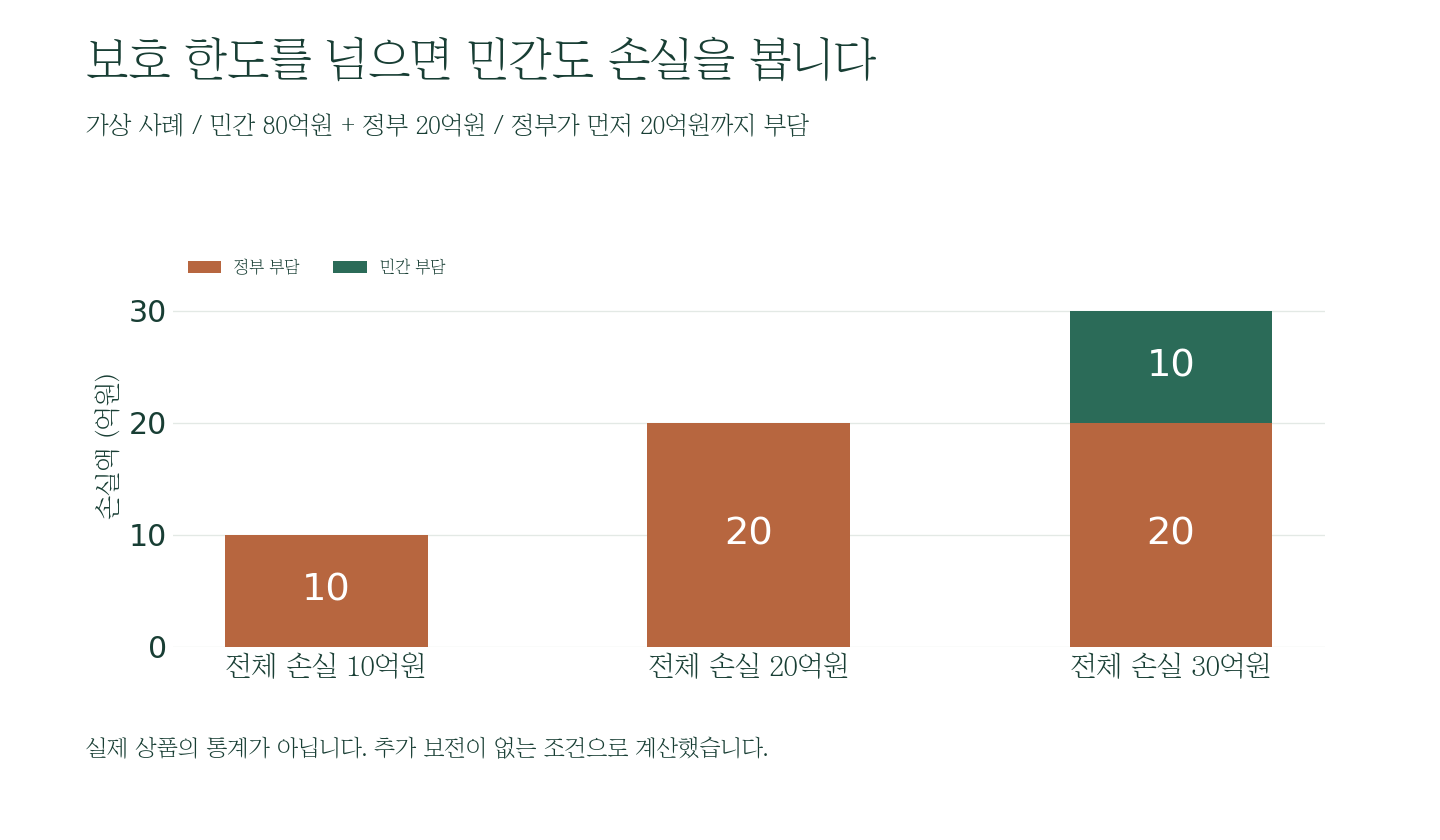
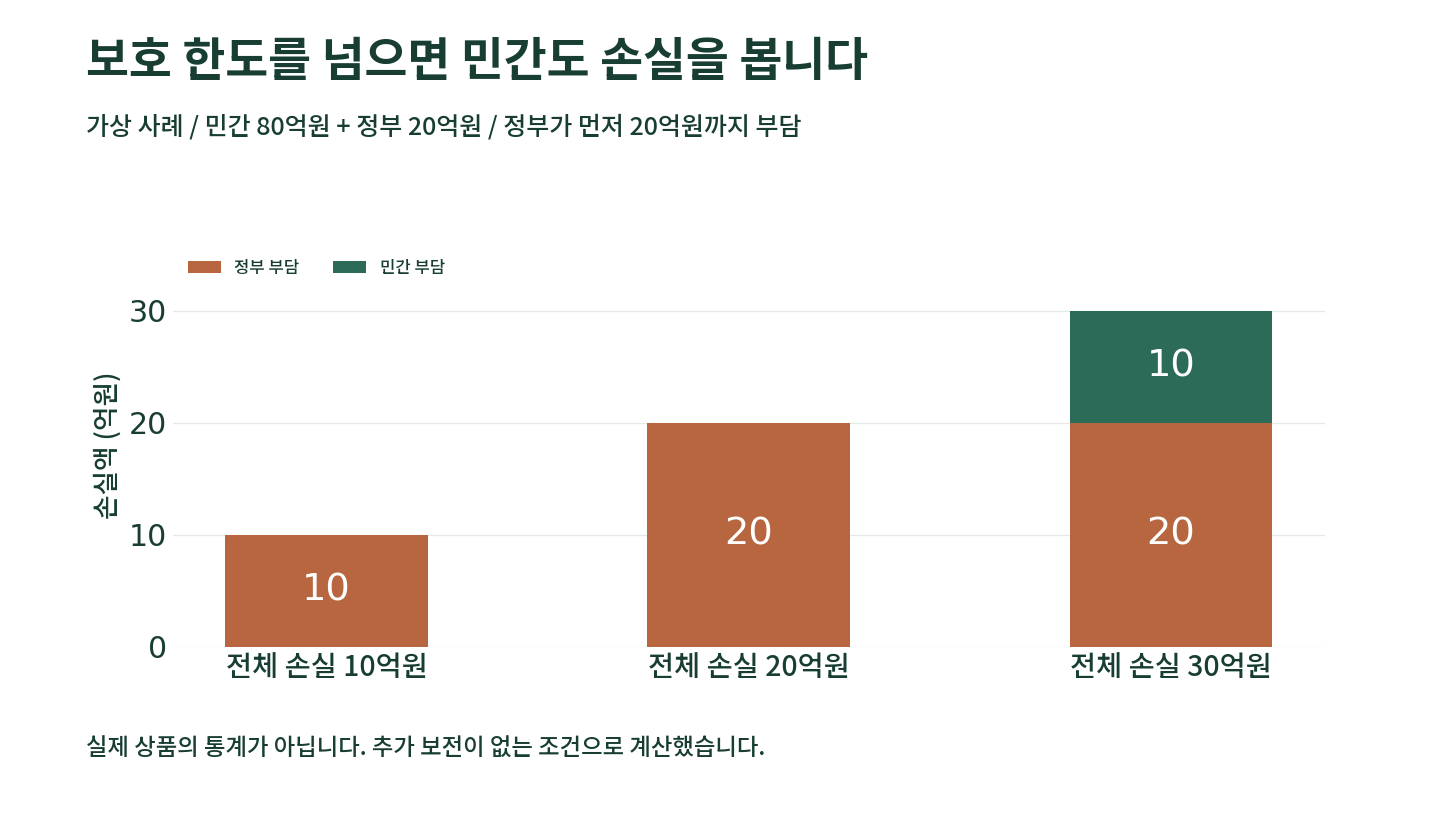
Align article visuals to body width and restore sans-serif chart typography

diff --git a/src/pages/CommunityChestWatchArticle.tsx b/src/pages/CommunityChestWatchArticle.tsx
@@ -38,7 +38,7 @@ export default function CommunityChestWatchArticle({ language }: { language: "ko
       </div>
     </header>
 
-    <div className="container-page max-w-4xl pt-8 sm:pt-11">
+    <div className="article-content-frame pt-8 sm:pt-11">
       <figure>
         <img src={photo} alt={ko ? "사랑의열매 상징이 놓인 탁자에서 기부금 자료를 살피는 장면" : "A reader examines donation records beside a card depicting the Community Chest emblem"} className="aspect-[16/9] w-full object-cover"/>
         <figcaption className="mt-2 text-xs leading-5 text-charcoal/55">{ko ? "사랑의열매를 상징하는 표식과 자료를 함께 배치한 AI 이미지. 실제 회계 문서나 취재 현장 사진은 아닙니다." : "AI editorial illustration by Seed Voice depicting the Community Chest symbol and a donation ledger. It is not a photograph of actual records or field reporting."}</figcaption>
@@ -56,7 +56,7 @@ export default function CommunityChestWatchArticle({ language }: { language: "ko
         ]).map(([label, value, note]) => <div key={label} className="border-t-4 border-green-deep bg-white p-5"><p className="text-xs font-bold text-charcoal/60">{label}</p><p className="mt-2 text-2xl font-extrabold text-navy">{value}</p><p className="mt-2 text-xs leading-5 text-charcoal/55">{note}</p></div>)}
       </div>
 
-      <div className="mx-auto mt-11 max-w-[720px] space-y-5 text-[16px] leading-8 text-charcoal/85 sm:text-[17px]">
+      <div className="reading-column mt-11 space-y-5 text-[16px] leading-8 text-charcoal/85 sm:text-[17px]">
         <p>{ko ? "2016년 사랑의열매에 모인 돈은 5,742억 원이었다. 2025년에는 9,864억 원이다. 10년 사이 약 72% 늘었다. 큰돈을 모아 위기의 이웃에게 보내는 힘은 소중하다. 그런데 지원받은 사람의 생활이 얼마나 나아졌는지를 알려면 모금액과 배분액만으로는 답이 나오지 않는다. 씨앗이 따라갈 것은 바로 그 빈칸이다." : "Community Chest of Korea raised KRW 574.2 billion in 2016 and KRW 986.4 billion in 2025, an increase of about 72%. Its ability to mobilize help matters. But the amount raised and allocated does not tell us whether recipients' lives improved. That is the gap this watch will follow."}</p>
       </div>
 
@@ -75,7 +75,7 @@ export default function CommunityChestWatchArticle({ language }: { language: "ko
         <p className="mt-3 text-xs leading-6 text-charcoal/55">{ko ? "자료: 사랑의열매 사업성과. 원자료 단위 백만 원을 억 원으로 반올림. 중앙회·지회 합계. 2021년부터 복권기금사업 실적이 배분액에 포함돼 이전 연도와 정의가 다르다. 한 해 모금과 배분의 차이는 미집행액이 아니다." : "Source: Community Chest annual performance data, national office plus branches, rounded from KRW million. Lottery-fund projects enter the allocation series in 2021, so earlier years are not strictly comparable. Annual donations minus allocations do not equal unspent cash."} <a className="underline" href={performance} target="_blank" rel="noreferrer">{ko ? "원자료" : "Original data"}</a></p>
       </section>
 
-      <section className="mx-auto mt-12 max-w-[720px] space-y-5 text-[16px] leading-8 text-charcoal/85 sm:text-[17px]">
+      <section className="reading-column mt-12 space-y-5 text-[16px] leading-8 text-charcoal/85 sm:text-[17px]">
         <h2 className="text-2xl font-extrabold text-navy">{ko ? "9,860억 원은 누구의 선택을 따라갔나" : "Who directed the KRW 986 billion?"}</h2>
         <p>{ko ? "2025년 배분 중 지정기탁은 7,430억 원이다. 기부자의 뜻이 분명한 돈이 모이고 쓰인다는 점은 강점이다. 그러나 기부자가 잘 알지 못하는 지역의 작은 문제는 누가 발견할까. 같은 공시에서 공개 신청사업은 301억 원, 전체 배분의 3.1%다." : "Donor-directed giving accounted for KRW 743.0 billion in 2025. Honoring donor intent is a strength. Yet who finds local needs donors do not already know? Open application programs accounted for KRW 30.1 billion, 3.1% of allocations."}</p>
         <p>{ko ? "3.1%만으로 작은 단체가 배제됐다고 판정할 수는 없다. 기획사업이나 지정기탁에서도 지원받을 수 있다. 필요한 것은 신청 단체의 규모와 선정률, 처음 지원받은 단체의 비율, 반복 지원 비율, 지역별 편차다. 이 자료가 있어야 익숙한 기관뿐 아니라 새 시민 활동에도 기회가 열리는지 판단할 수 있다." : "That 3.1% does not prove smaller groups were excluded; planned or donor-directed programs may also support them. We need application and selection rates by organization size, first-time grants, repeat grants and region before judging access."}</p>
@@ -85,7 +85,7 @@ export default function CommunityChestWatchArticle({ language }: { language: "ko
 
       <aside className="mt-8 border-l-4 border-gold bg-white p-6"><h3 className="font-extrabold text-navy">{ko ? "사업감시의 세 칸" : "Three measures of a program"}</h3><p className="mt-3 text-sm leading-7 text-charcoal/75">{ko ? "투입: 얼마를 썼나 → 도달: 누구에게 닿았나 → 변화: 그 뒤 무엇이 달라졌나. 공개된 합계는 첫째와 일부 둘째를 보여준다. 셋째는 개별 사업 평가서, 조사 방식, 중단·실패한 사업까지 대조해야 한다. 현재 확인한 자료만으로 전체 사업의 사회적 효과를 수치화하지 않는다." : "Input: money spent → Reach: people served → Change: outcomes sustained. Published aggregates show the first and part of the second. Individual evaluations, survey methods and failed or discontinued projects are needed for the third. These records alone cannot establish overall social impact."}</p></aside>
 
-      <section className="mx-auto mt-12 max-w-[720px] space-y-5 text-[16px] leading-8 text-charcoal/85 sm:text-[17px]">
+      <section className="reading-column mt-12 space-y-5 text-[16px] leading-8 text-charcoal/85 sm:text-[17px]">
         <h2 className="text-2xl font-extrabold text-navy">{ko ? "커지는 이월 재원은 무슨 계획을 품고 있나" : "What is the plan for carried-forward resources?"}</h2>
         <p>{ko ? "공식 수입지출현황의 ‘차기이월 순자산’은 2021년 약 8,181억 원에서 2025년 약 1조 962억 원으로 늘었다. 이 수치는 재무상태표의 자본총계와도 다르며, 전액 곧바로 쓸 수 있는 현금도 아니다. 씨앗이 요구할 설명은 언제 모였고, 어떤 지정조건이 붙었고, 언제 누구에게 쓰일 돈인지를 시민이 따라갈 수 있는 표다." : "The disclosed carried-forward net-assets figure increased from roughly KRW 818.1 billion in 2021 to KRW 1.0962 trillion in 2025. It differs from balance-sheet equity and is not all immediately available cash. Citizens need a ledger showing when funds arrived, their restrictions and planned spending dates."}</p>
         <p>{ko ? "사랑의열매는 큰 기부를 모아 위기의 현장으로 보낼 역량을 갖고 있다. 바로 그 규모 때문에 설명의 책임도 크다. 시민이 궁금한 것은 소박하다. 내가 낸 돈으로 누가 숨을 돌렸고, 그 변화가 얼마나 오래 갔는가. 다음에는 누가 기회를 얻는가." : "The Chest can mobilize major donations for people in crisis. Its scale makes explanation more necessary. Who found relief, how long did the improvement last, and who gets a chance next?"}</p>

diff --git a/src/pages/InstitutionWatchArticle.tsx b/src/pages/InstitutionWatchArticle.tsx
@@ -142,16 +142,16 @@ export default function InstitutionWatchArticle({ item, language }: { item: Publ
       <p className="mt-5 max-w-3xl text-base leading-8 text-charcoal/70">{t(story.deck)}</p>
       <p className="mt-4 text-xs text-charcoal/50">{ko ? "자료 확인·수정 2026.09.24 · 추적 중" : "Verified and updated 24 September 2026 · Ongoing watch"}</p>
     </div></header>
-    <div className="container-page max-w-4xl pt-8 sm:pt-11">
+    <div className="article-content-frame pt-8 sm:pt-11">
       {item.supportNote && <aside className="mb-6 rounded-lg bg-navy p-5 text-sm font-semibold leading-7 text-white">{t(item.supportNote)}</aside>}
       <figure><img src={story.image} alt={t(story.imageAlt)} className="aspect-[16/9] w-full object-cover"/><figcaption className="mt-2 text-xs leading-5 text-charcoal/55">{ko ? "씨앗의 소리가 제작한 AI 상징 이미지. 실제 기관·회계문서·취재 현장의 사진은 아닙니다." : "AI editorial illustration by Seed Voice, not a photograph of an actual institution, document or reporting scene."}</figcaption></figure>
       <div className="mt-8 grid gap-3 sm:grid-cols-3">{story.cards.map((card) => <div key={card.label.ko} className="border-t-4 border-green-deep bg-white p-5"><p className="text-xs font-bold text-charcoal/60">{t(card.label)}</p><p className="mt-2 text-xl font-extrabold text-navy sm:text-2xl">{t(card.value)}</p><p className="mt-2 text-xs leading-5 text-charcoal/55">{t(card.note)}</p></div>)}</div>
-      <div className="mx-auto mt-11 max-w-[720px] space-y-5 text-[16px] leading-8 text-charcoal/85 sm:text-[17px]">{story.lead.map((p) => <p key={p.ko}>{t(p)}</p>)}</div>
+      <div className="reading-column mt-11 space-y-5 text-[16px] leading-8 text-charcoal/85 sm:text-[17px]">{story.lead.map((p) => <p key={p.ko}>{t(p)}</p>)}</div>
       <section className="mt-12"><h2 className="text-2xl font-extrabold text-navy">{t(story.seriesTitle)}</h2><p className="mt-3 text-sm leading-7 text-charcoal/65">{t(story.seriesIntro)}</p>
         <div className="mt-5 overflow-x-auto bg-white p-5"><div className="min-w-[520px]"><div className="flex h-36 items-end gap-1 border-b border-charcoal/20">{story.points.map((p) => <div key={p.year} className="flex h-full flex-1 items-end justify-center gap-0.5">{p.amount === undefined ? <span className="mb-1 block h-1 w-3 bg-charcoal/20"/> : <><span className="w-2/5 bg-green-deep" style={{ height: `${p.amount / max * 100}%` }}/>{p.secondary !== undefined && <span className="w-2/5 bg-gold" style={{ height: `${p.secondary / max * 100}%` }}/>}</>}</div>)}</div><div className="mt-2 flex gap-1 text-center text-[10px] text-charcoal/60">{story.points.map((p) => <span key={p.year} className="flex-1">{String(p.year).slice(2)}</span>)}</div></div><p className="mt-3 text-xs text-charcoal/55">{ko ? "초록: 주 지표 / 금색: 별도 범위 또는 시설비 / 회색: 미확인·해당 없음" : "Green: primary series / gold: separate scope or facility / grey: unverified or N/A"}</p></div>
         <div className="mt-4 overflow-x-auto border border-green-deep/15 bg-white"><table className="w-full min-w-[500px] text-sm"><thead className="bg-green-deep text-white"><tr><th className="p-3 text-left">{ko ? "연도" : "Year"}</th><th className="p-3 text-right">{ko ? "주 지표 (억 원)" : "Primary (KRW 100m)"}</th><th className="p-3 text-right">{ko ? "별도 범위 (억 원)" : "Separate scope"}</th><th className="p-3 text-left">{ko ? "자료 상태" : "Status"}</th></tr></thead><tbody>{story.points.map((p) => <tr key={p.year} className="border-t border-green-deep/10"><td className="p-3 font-bold">{p.year}</td><td className="p-3 text-right tabular-nums">{p.amount?.toLocaleString("ko-KR") ?? "—"}</td><td className="p-3 text-right tabular-nums">{p.secondary?.toLocaleString("ko-KR") ?? "—"}</td><td className="p-3 text-xs text-charcoal/65">{t(p.note)}</td></tr>)}</tbody></table></div><p className="mt-3 text-xs leading-6 text-charcoal/55">{t(story.seriesNote)}</p>
       </section>
-      {story.chapters.map((chapter) => <section key={chapter.title.ko} className="mx-auto mt-12 max-w-[720px] space-y-5 text-[16px] leading-8 text-charcoal/85 sm:text-[17px]"><h2 className="text-2xl font-extrabold text-navy">{t(chapter.title)}</h2>{chapter.paragraphs.map((p) => <p key={p.ko}>{t(p)}</p>)}</section>)}
+      {story.chapters.map((chapter) => <section key={chapter.title.ko} className="reading-column mt-12 space-y-5 text-[16px] leading-8 text-charcoal/85 sm:text-[17px]"><h2 className="text-2xl font-extrabold text-navy">{t(chapter.title)}</h2>{chapter.paragraphs.map((p) => <p key={p.ko}>{t(p)}</p>)}</section>)}
       <section className="mt-12 border-t border-green-deep/15 pt-7"><h2 className="text-2xl font-extrabold text-navy">{ko ? "다음 공개자료에서 확인할 세 가지" : "Three questions for the next disclosure"}</h2><div className="mt-5 grid gap-3 sm:grid-cols-3">{story.checks.map((c, i) => <div key={c.question.ko} className="bg-white p-5"><span className="text-xs font-extrabold text-gold">{String(i + 1).padStart(2,"0")}</span><h3 className="mt-2 font-extrabold text-navy">{t(c.question)}</h3><p className="mt-2 text-sm leading-6 text-charcoal/70">{t(c.measure)}</p></div>)}</div><p className="mt-5 text-sm leading-7 text-charcoal/65">{ko ? "기관의 자료와 반론이 도착하면 원문, 확인일, 수정 이력을 연결해 이 기사를 갱신합니다." : "We will update this article with institutional records and replies, source dates and a visible revision history."}</p></section>
       <aside className="mt-9 border-l-4 border-gold bg-white p-5 text-sm leading-7 text-charcoal/75"><strong className="block text-navy">{ko ? "수치 해석 주의" : "Reading the figures"}</strong>{t(story.caution)}</aside>
       <section className="mt-10"><h2 className="text-2xl font-extrabold text-navy">{ko ? "원문과 확인 자료" : "Primary records and sources"}</h2><div className="mt-4 divide-y divide-green-deep/10 border-y border-green-deep/10">{[...item.sources.map((x) => ({ label: x.label, url: x.url })), ...(story.additionalSources ?? [])].map((source) => <a key={source.url} href={source.url} target="_blank" rel="noreferrer" className="flex items-start gap-3 py-3 text-sm font-bold text-navy hover:text-green-deep"><span className="flex-1">{t(source.label)}</span><ExternalLink size={16}/></a>)}</div></section>

diff --git a/src/pages/PublicInstitutionReformTracker.tsx b/src/pages/PublicInstitutionReformTracker.tsx
@@ -41,12 +41,12 @@ export default function PublicInstitutionReformTrackerPage() {
 
   return <article className="bg-paper pb-14 sm:pb-20">
     <header className="border-b border-green-deep/15 bg-ivory">
-      <div className="container-page max-w-6xl py-5 sm:py-8">
+      <div className="article-content-frame py-5 sm:py-8">
         <div className="flex flex-wrap items-center justify-between gap-3">
           <Link to="/monitoring" className="text-link text-xs"><ArrowLeft size={14}/>{ko ? "시민감시" : "Civic Watch"}</Link>
           <ShareButton title={t(publicInstitutionReformTracker.title)} text={t(publicInstitutionReformTracker.summary)} />
         </div>
-        <div className="mt-4 grid gap-7 border-t-2 border-navy pt-5 lg:grid-cols-[1.08fr_.92fr] lg:items-center">
+        <div className="mt-4 grid gap-7 border-t-2 border-navy pt-5">
           <div>
             <div className="flex flex-wrap items-center gap-2.5"><span className="section-kicker">SPECIAL WATCH · PUBLIC INSTITUTIONS</span><span className="rounded-full bg-red-700 px-3 py-1 text-[11px] font-extrabold text-white">{t(publicInstitutionReformTracker.status)}</span></div>
             <h1 className="editorial-title mt-4 text-[2.25rem] font-bold leading-[1.12] text-navy sm:text-[3.2rem]">{ko ? <><span className="block">공공기관 109,</span><span className="block">정말 줄어드나</span></> : t(publicInstitutionReformTracker.title)}</h1>
@@ -54,12 +54,12 @@ export default function PublicInstitutionReformTrackerPage() {
             <p className="mt-5 border-l-4 border-gold pl-4 text-lg font-extrabold leading-8 text-green-deep">{ko ? "기관은 줄고, 국민 부담과 정부 권한도 줄어드는가?" : "Will institutions, public cost and government power all shrink together?"}</p>
             <div className="mt-5 flex flex-wrap items-center gap-4 text-xs text-charcoal/45"><time>{ko ? "최초 공개 2026.09.21" : "First published Sep. 21, 2026"}</time><span>{ko ? "새 사실이 확인될 때만 갱신" : "Updated only when material facts change"}</span></div>
           </div>
-          {publicInstitutionReformTracker.heroImage && <figure className="overflow-hidden border border-green-deep/12 bg-white shadow-soft"><SafeImage src={publicInstitutionReformTracker.heroImage.src} alt={t(publicInstitutionReformTracker.heroImage.alt)} className="aspect-[4/3] w-full object-cover" loading="eager"/><figcaption className="border-t border-green-deep/10 px-4 py-3 text-xs leading-5 text-charcoal/55">{t(publicInstitutionReformTracker.heroImage.caption)} <span className="text-charcoal/35">· {t(publicInstitutionReformTracker.heroImage.credit)}</span></figcaption></figure>}
+          {publicInstitutionReformTracker.heroImage && <figure className="overflow-hidden border border-green-deep/12 bg-white shadow-soft"><SafeImage src={publicInstitutionReformTracker.heroImage.src} alt={t(publicInstitutionReformTracker.heroImage.alt)} className="aspect-video w-full object-cover" loading="eager"/><figcaption className="border-t border-green-deep/10 px-4 py-3 text-xs leading-5 text-charcoal/55">{t(publicInstitutionReformTracker.heroImage.caption)} <span className="text-charcoal/35">· {t(publicInstitutionReformTracker.heroImage.credit)}</span></figcaption></figure>}
         </div>
       </div>
     </header>
 
-    <div className="container-page max-w-6xl py-9 sm:py-12">
+    <div className="article-content-frame py-9 sm:py-12">
       <section className="mt-12" aria-labelledby="recent-change-title">
         <div className="flex items-center gap-3 border-b-2 border-navy pb-4"><Sparkles className="text-red-700" size={23}/><div><span className="section-kicker">WHAT CHANGED</span><h2 id="recent-change-title" className="mt-1 text-3xl font-extrabold text-navy">{ko ? "최근 확인된 변화 3가지" : "Three latest verified changes"}</h2></div></div>
         <div className="mt-4 grid gap-4 lg:grid-cols-3">

diff --git a/src/styles/index.css b/src/styles/index.css
@@ -117,7 +117,7 @@ button, input, textarea { font: inherit; }
 
 @layer components {
   .container-page { @apply mx-auto w-full max-w-[1440px] px-5 sm:px-8 lg:px-12; }
-  .article-content-frame { @apply mx-auto w-full max-w-4xl px-5 sm:px-8 lg:px-12; }
+  .article-content-frame { @apply mx-auto w-full px-5 sm:px-8 lg:px-12; max-width: calc(var(--article-reading-width) + 2 * var(--article-side-padding)); }
   .section-band { @apply py-10 sm:py-12; }
   .button-primary { @apply inline-flex min-h-11 items-center justify-center gap-2 rounded-sm bg-green-deep px-5 py-3 font-bold text-white transition hover:bg-green-mid focus:outline-none focus:ring-2 focus:ring-gold; }
   .button-secondary { @apply inline-flex min-h-11 items-center justify-center gap-2 rounded-sm border border-green-deep/25 bg-transparent px-5 py-3 font-bold text-green-deep transition hover:bg-green-pale; }
@@ -137,7 +137,7 @@ button, input, textarea { font: inherit; }
   .article-detail-title-dark { @apply mx-auto text-center text-[1.75rem] font-extrabold leading-[1.18] tracking-[-.035em] text-white sm:text-[2.25rem]; max-width: 46rem; text-wrap: balance; word-break: keep-all; overflow-wrap: break-word; }
   .article-detail-subtitle { @apply mx-auto mt-2 max-w-3xl text-center text-base font-bold leading-[1.55] text-green-deep sm:text-lg; text-wrap: balance; word-break: keep-all; }
   .article-summary { @apply mx-auto mt-2.5 max-w-3xl text-[15px] leading-7 text-charcoal/65 sm:text-base; }
-  .reading-column { @apply mx-auto w-full max-w-[46rem]; }
+  .reading-column { @apply mx-auto w-full; max-width: var(--article-reading-width); }
   .article-section { @apply mt-9 sm:mt-10; }
   .article-section-long { @apply mt-10 sm:mt-12; }
   .article-section-title { @apply text-[1.4rem] font-extrabold leading-[1.35] tracking-[-.025em] text-navy sm:text-2xl; }
@@ -145,14 +145,21 @@ button, input, textarea { font: inherit; }
   .article-copy-long { @apply mt-3.5 leading-[1.82] sm:leading-[1.82]; }
 }
 
+:root { --article-reading-width: 46rem; --article-side-padding: 1.25rem; }
+@media (min-width: 640px) { :root { --article-side-padding: 2rem; } }
+@media (min-width: 1024px) { :root { --article-side-padding: 3rem; } }
 @media (min-width: 1280px) {
-  .article-content-frame { max-width: 68rem; }
+  :root { --article-reading-width: 50rem; }
   .article-detail-title,
   .article-detail-title-dark,
   .article-detail-subtitle,
-  .article-summary,
-  .reading-column { max-width: 50rem; }
+  .article-summary { max-width: var(--article-reading-width); }
 }
+
+/* Article visuals share the text measure; archive thumbnails keep their card layout. */
+.article-content-frame figure { width: 100%; max-width: var(--article-reading-width); margin-left: auto; margin-right: auto; }
+.article-content-frame figure > :is(img, svg) { width: 100%; }
+.article-content-frame figure :is(table, svg) { font-family: Pretendard, "Noto Sans KR", ui-sans-serif, system-ui, sans-serif; }
 
 .editorial-title { font-family: Georgia, "Noto Serif KR", "Nanum Myeongjo", serif; letter-spacing: -0.035em; }
 

diff --git a/src/components/SourceArticleCard.tsx b/src/components/SourceArticleCard.tsx
@@ -37,7 +37,7 @@ export default function SourceArticleCard({ news, compact = false, ko, imageBesi
     />
   ) : (
     <a href={news.url} target="_blank" rel="noreferrer" className="group/image block overflow-hidden bg-green-deep">
-      <SafeImage src={thumbnail} alt={news.thumbnailAlt ?? ""} referrerPolicy="no-referrer" className="aspect-[16/9] w-full object-cover transition duration-500 group-hover/image:scale-[1.015]"/>
+      <SafeImage src={thumbnail} alt={news.thumbnailAlt ?? ""} referrerPolicy="no-referrer" className={imageBesideSummary ? "block h-auto w-full object-contain" : "aspect-[16/9] w-full object-cover transition duration-500 group-hover/image:scale-[1.015]"}/>
       {news.thumbnailCaption && <span className="block border-t border-green-deep/10 bg-white px-5 py-3 text-xs leading-5 text-charcoal/50">{news.thumbnailCaption}</span>}
     </a>
   ));
@@ -61,21 +61,6 @@ export default function SourceArticleCard({ news, compact = false, ko, imageBesi
     );
   }
 
-  if (imageBesideSummary && thumbnail) {
-    return <section className="mb-10 overflow-hidden border border-green-deep/15 bg-white shadow-[0_16px_45px_rgba(23,76,58,.08)]">
-      <div className="p-6 sm:p-9">
-        <div className="flex flex-wrap items-center gap-3 text-xs font-bold text-charcoal/50"><span className="section-kicker">{ko ? "핫이슈 선정 기사" : "HOT ISSUE SOURCE"}</span><span>{news.outlet}</span><time>{news.publishedAt}</time></div>
-        <h2 className="editorial-title mt-5 text-2xl font-bold leading-snug text-navy sm:text-3xl">{news.headline}</h2>
-        <div className="mt-6 grid gap-6 border-t border-green-deep/10 pt-6 md:grid-cols-[minmax(0,0.9fr)_minmax(0,1.1fr)] md:items-start md:gap-8">
-          <a href={news.url} target="_blank" rel="noreferrer" className="group/image block overflow-hidden bg-ivory">
-            <SafeImage src={thumbnail} alt={news.thumbnailAlt ?? ""} referrerPolicy="no-referrer" className="aspect-[1000/434] w-full bg-ivory object-contain transition duration-500 group-hover/image:scale-[1.015]"/>
-            {news.thumbnailCaption && <span className="block border border-t-0 border-green-deep/10 bg-ivory px-4 py-3 text-xs leading-5 text-charcoal/60">{news.thumbnailCaption}</span>}
-          </a>
-          <div><span className="text-xs font-extrabold tracking-[.16em] text-green-deep">{ko ? "기사 핵심 요약" : "KEY POINTS"}</span><ul className="mt-4 grid gap-3 text-sm leading-7 text-charcoal/70 sm:text-base">{news.summary.map((item, index) => <li key={`${index}-${item}`} className="flex gap-3"><span className="mt-3 h-1.5 w-1.5 shrink-0 rounded-full bg-gold"/><span>{item}</span></li>)}</ul><a href={news.url} target="_blank" rel="noreferrer" className="button-secondary mt-7 inline-flex text-sm">{news.linkLabel}<ArrowUpRight size={15}/></a></div>
-        </div>
-      </div>
-    </section>;
-  }
 
   return (
     <section className="mb-10 overflow-hidden border border-green-deep/15 bg-white shadow-[0_16px_45px_rgba(23,76,58,.08)]">

diff --git a/src/pages/LivingWatchDetail.tsx b/src/pages/LivingWatchDetail.tsx
@@ -42,7 +42,6 @@ export default function LivingWatchDetail({ item, language, readingPath }: Props
   const ko = language === "ko";
   const t = (value: LocalizedText) => value[language];
   const layered = item.displayMode === "layered";
-  const articleWidthHeader = item.slug === "supreme-court-renomination-tracker-2026";
   const controversies = item.currentControversies ?? [];
   const openQuestions = controversies.length ? [] : item.questions;
   const hasRemainingItems = controversies.length > 0 || openQuestions.length > 0;
@@ -72,13 +71,13 @@ export default function LivingWatchDetail({ item, language, readingPath }: Props
   return (
     <article className="bg-paper pb-12 sm:pb-16">
       <header className="border-b border-green-deep/15 bg-ivory">
-        <div className={`container-page py-5 sm:py-7 ${articleWidthHeader ? "max-w-[50rem]" : "max-w-6xl"}`}>
+        <div className="article-content-frame py-5 sm:py-7">
           <div className="flex flex-wrap items-center justify-between gap-3">
             <Link to="/monitoring" className="text-link text-xs"><ArrowLeft size={14}/>{ko ? "시민감시" : "Civic Watch"}</Link>
             <ShareButton title={t(item.title)} text={t(item.summary)} />
           </div>
 
-          <div className={`mt-4 grid gap-7 border-t-2 border-navy pt-5 ${articleWidthHeader ? "" : "lg:grid-cols-[1.08fr_.92fr] lg:items-center"}`}>
+          <div className="mt-4 grid gap-7 border-t-2 border-navy pt-5">
             <div>
               <div className="flex flex-wrap items-center gap-2.5">
                 <span className="section-kicker">CIVIC WATCH · NEWS TRACKER</span>
@@ -106,7 +105,7 @@ export default function LivingWatchDetail({ item, language, readingPath }: Props
 
             {item.heroImage && (
               <figure className="overflow-hidden border border-green-deep/12 bg-white shadow-soft">
-                <SafeImage src={item.heroImage.src} alt={t(item.heroImage.alt)} className={`${articleWidthHeader ? "aspect-video" : "aspect-[4/3]"} w-full object-cover`} loading="eager" />
+                <SafeImage src={item.heroImage.src} alt={t(item.heroImage.alt)} className="aspect-video w-full object-cover" loading="eager" />
                 <figcaption className="border-t border-green-deep/10 px-4 py-3 text-xs leading-5 text-charcoal/55">
                   {t(item.heroImage.caption)} <span className="text-charcoal/35">· {t(item.heroImage.credit)}</span>
                 </figcaption>
@@ -116,7 +115,7 @@ export default function LivingWatchDetail({ item, language, readingPath }: Props
         </div>
       </header>
 
-      <div className={`container-page py-8 sm:py-12 ${articleWidthHeader ? "max-w-[50rem]" : "max-w-5xl"}`}>
+      <div className="article-content-frame py-8 sm:py-12">
         {!!item.keyChanges?.length && (
           <section className="mt-10" aria-labelledby="changes-title">
             <div className="flex items-center gap-3 border-b-2 border-navy pb-4">

diff --git a/src/components/ContributionArticle.tsx b/src/components/ContributionArticle.tsx
@@ -13,7 +13,7 @@ const typeLabel: Record<ArticleDraftType, string> = {
 
 function ArticleBody({ body }: { body: string }) {
   const blocks = body.replace(/\r\n/g, "\n").split(/\n{2,}/).map((block) => block.trim()).filter(Boolean);
-  return <div className="mx-auto max-w-[760px] text-[1.05rem] leading-[2] text-charcoal/85">
+  return <div className="reading-column text-[1.05rem] leading-[2] text-charcoal/85">
     {blocks.map((block, index) => {
       if (/^#{1,3}\s+/.test(block)) return <h2 key={index} className="editorial-title mb-4 mt-12 text-2xl font-bold leading-snug text-navy">{block.replace(/^#{1,3}\s+/, "")}</h2>;
       const lines = block.split("\n");
@@ -51,9 +51,9 @@ export default function ContributionArticle({ title, subtitle, summary, byline, 
         <div className="mt-7 flex flex-wrap justify-center gap-x-5 gap-y-2 border-t border-green-deep/10 pt-5 text-xs text-charcoal/50"><span className="font-bold text-green-deep">{byline || "필자"}</span><time>{date}</time><span className="inline-flex items-center gap-1"><Clock3 size={13}/>{minutes}분 읽기</span></div>
       </div>
     </header>
-    <div className="container-page max-w-6xl py-8 sm:py-12">
-      <SafeImage src={image} alt={`${title || "기사"} 대표 이미지`} className="mx-auto aspect-[16/8] w-full max-w-5xl bg-green-pale object-cover" referrerPolicy="no-referrer"/>
-      {summary && <p className="editorial-title mx-auto mt-10 max-w-[760px] border-y border-green-deep/15 py-6 text-xl font-semibold leading-9 text-navy">{summary}</p>}
+    <div className="article-content-frame py-8 sm:py-12">
+      <SafeImage src={image} alt={`${title || "기사"} 대표 이미지`} className="aspect-[16/8] w-full bg-green-pale object-cover" referrerPolicy="no-referrer"/>
+      {summary && <p className="editorial-title reading-column mt-10 border-y border-green-deep/15 py-6 text-xl font-semibold leading-9 text-navy">{summary}</p>}
       <ArticleBody body={body || "아직 작성된 본문이 없습니다."}/>
     </div>
   </article>;

diff --git a/src/pages/CommunityChestResearch.tsx b/src/pages/CommunityChestResearch.tsx
@@ -59,13 +59,13 @@ export default function CommunityChestResearch() {
         </div>
       </header>
 
-      <div className="container-page max-w-6xl py-8 sm:py-12">
+      <div className="article-content-frame py-8 sm:py-12">
         <figure className="overflow-hidden border border-green-deep/10 bg-white shadow-[0_22px_65px_rgba(23,76,58,.1)]">
           <img src={`${import.meta.env.BASE_URL}images/monitoring/community-chest-deep-hero.png?v=20260910-2`} alt={article.heroAlt} className="aspect-[16/9] w-full object-cover" />
           <figcaption className="border-t border-green-deep/10 px-5 py-3 text-xs leading-6 text-charcoal/50 sm:px-7">{article.heroCaption}</figcaption>
         </figure>
 
-        <div className="mt-8 grid gap-10 lg:grid-cols-[15rem_minmax(0,46rem)] lg:justify-center lg:gap-14">
+        <div className="mt-8 grid gap-10 ">
           <aside id="research-contents" className="scroll-mt-40 lg:sticky lg:top-[158px] lg:self-start">
             <div className="border-y-2 border-green-deep bg-white p-5">
               <div className="flex items-center gap-2 text-navy"><BookOpenText size={18}/><h2 className="font-extrabold">{ko ? "차례" : "Contents"}</h2></div>

diff --git a/src/pages/BriefingDetail.tsx b/src/pages/BriefingDetail.tsx
@@ -42,7 +42,7 @@ export default function BriefingDetail() {
 
   const renderSourceArticle = () => briefing.sourceArticle && (
     <aside className="reading-column my-8 overflow-hidden rounded-xl border border-green-deep/15 bg-white shadow-[0_12px_34px_rgba(23,76,58,.07)]" aria-label={ko ? "이 브리핑이 검토한 원보도" : "Original report reviewed by this briefing"}>
-      <div className="grid md:grid-cols-[minmax(0,1.05fr)_minmax(0,1fr)]">
+      <div className="grid">
         <a href={briefing.sourceArticle.url} target="_blank" rel="noreferrer" className={briefing.sourceArticle.imageFit === "natural" ? "group block self-start overflow-hidden bg-ivory" : "group block overflow-hidden bg-navy"} aria-label={ko ? "원보도 새 창에서 읽기" : "Read the original report in a new tab"}>
           <SafeImage src={briefing.sourceArticle.imageSrc} alt={briefing.sourceArticle.imageAlt} className={briefing.sourceArticle.imageFit === "natural" ? "block h-auto w-full object-contain" : "aspect-video h-full w-full object-cover transition duration-300 group-hover:scale-[1.015]"} />
         </a>

diff --git a/src/pages/PublicInterestWatchDetail.tsx b/src/pages/PublicInterestWatchDetail.tsx
@@ -69,7 +69,7 @@ export default function PublicInterestWatchDetail() {
         </div>
       </header>
 
-      <div className="container-page max-w-4xl py-8 sm:py-12">
+      <div className="article-content-frame py-8 sm:py-12">
         {!item.hideSourceBasis && <aside className="border-l-4 border-gold bg-white p-5 shadow-soft sm:p-6">
           <div className="flex items-center gap-3"><Scale className="text-gold"/><h2 className="text-lg font-extrabold text-navy">{ko ? "이 기록의 작성 기준" : "Basis of this record"}</h2></div>
           <p className="mt-3 text-sm leading-6 text-charcoal/65">{t(item.sourceBasis)}</p>

diff --git a/AGENTS.md b/AGENTS.md
@@ -46,3 +46,5 @@
 - Facebook tokens remain in Edge Function Secrets; dispatch credentials remain in Vault. Never retrieve or print tokens, service keys, Vault contents or request headers. No recurring Facebook publication schedule is enabled by the chat bridge.
 
 - Tracker timeline article/video cards must ship with an image. The production build runs `scripts/prepare-tracker-images.mjs` to fetch original article metadata, validate raster bytes, and store JPEGs with source URL and verification time in `trackerSourceImages.json`. Missing or invalid artwork fails publication. Do not use publisher logos as article photographs. If an original article has no accessible photograph, explicitly curate a relevant image with `kind: "context"`, bilingual alt and credit; the card must disclose it as a related image. Official document cards may retain their document icon. Keep existing article dates and text unchanged during repairs.
+
+- Article photographs, illustrations and charts must use the same reading width as the article text through `article-content-frame` and `reading-column`, including legacy articles and both languages. Keep archive and timeline thumbnails within their cards. Chart labels use readable sans-serif typography (Pretendard/Noto Sans KR), never Chosun Ilbo Myeongjo. Use medium-weight labels and bold chart titles.
